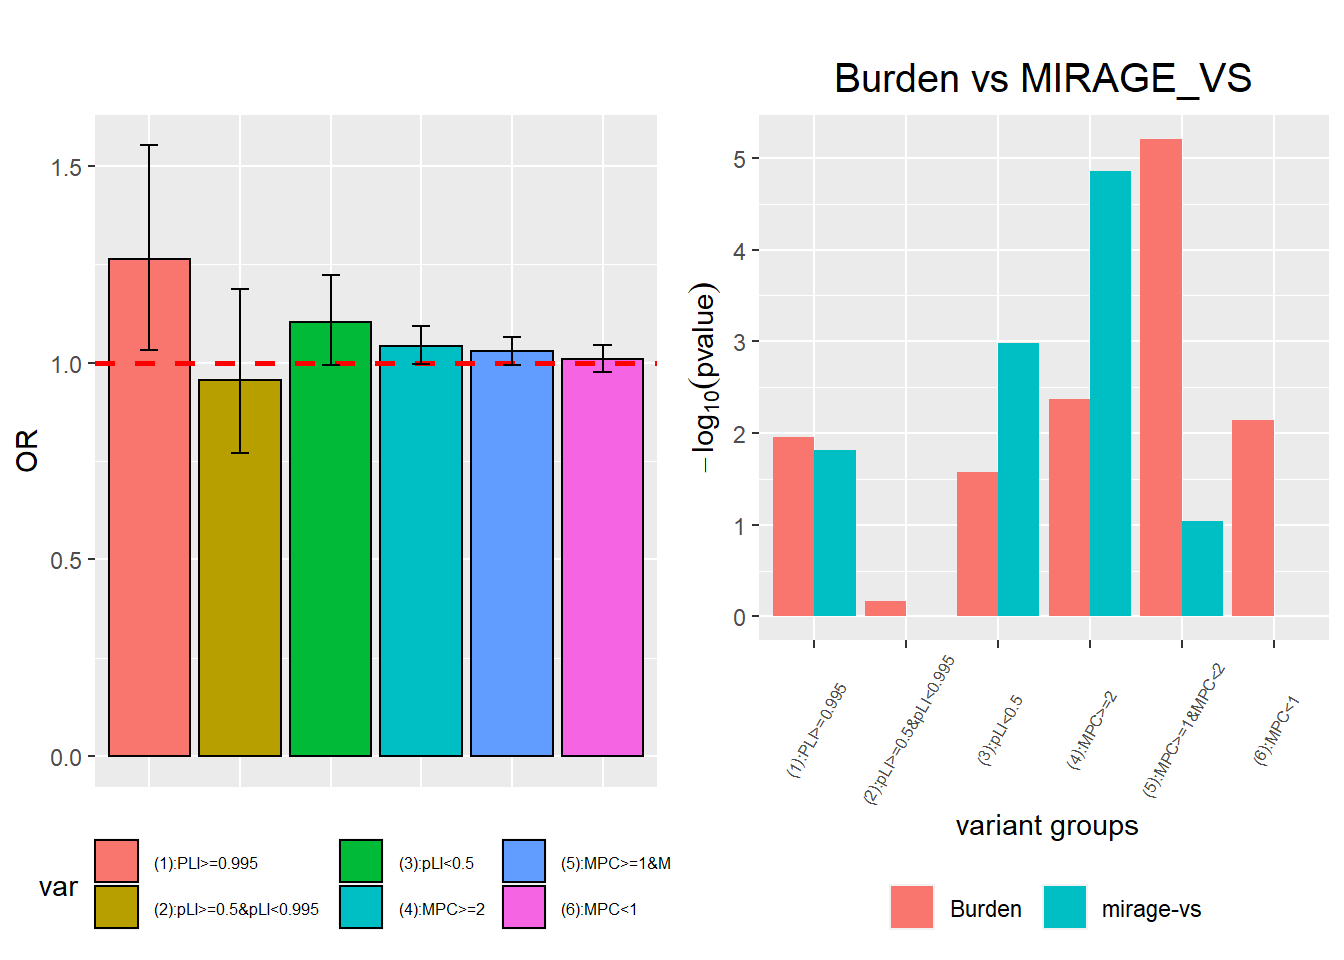
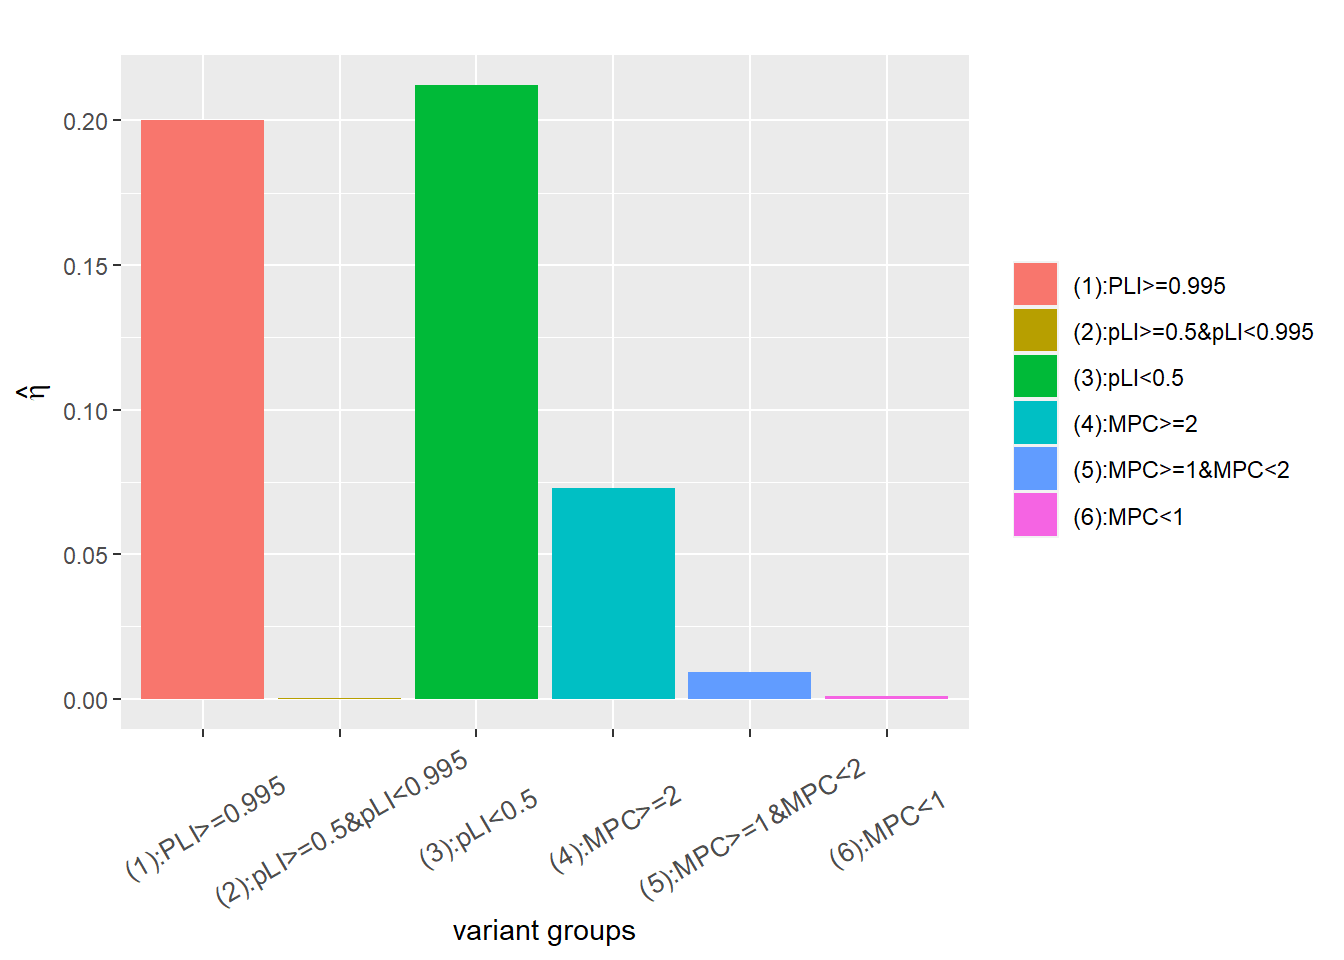
9/1/2022

diff --git a/docs/ASC_new_sample_gene_set.html b/docs/ASC_new_sample_gene_set.html
@@ -783,23 +783,12 @@ value is <span class="math inline">\(2.585515e-34\)</span>.</p></li>
 <div id="run-mirage_vs-on-6-variant-groups-in-cell-paper"
 class="section level3">
 <h3>Run MIRAGE_VS on 6 variant groups in cell paper</h3>
-<p>This figure shows the comparison between burden test (one side two
-sample poisson test) and mirage-vs for proband in 6 variant groups.</p>
 <ul>
 <li><span class="math inline">\(\gamma=6\)</span> for 3 PLI variant
 groups and <span class="math inline">\(\gamma=3\)</span> for 3 MPC
-groups when running mirage.</li>
+groups when running mirage_vs.</li>
 </ul>
-<pre><code>## # A tibble: 6 x 7
-##   X                      No_case No_contr    OR       pval  eta_est  eta_pval
-##   &lt;chr&gt;                    &lt;int&gt;    &lt;int&gt; &lt;dbl&gt;      &lt;dbl&gt;    &lt;dbl&gt;     &lt;dbl&gt;
-## 1 (1):PLI&gt;=0.995             225      178 1.26  0.0109     0.200    0.0150   
-## 2 (2):pLI&gt;=0.5&amp;pLI&lt;0.995     174      182 0.956 0.683      0.000342 1        
-## 3 (3):pLI&lt;0.5                854      775 1.10  0.0266     0.212    0.00105  
-## 4 (4):MPC&gt;=2                7968     7638 1.04  0.00422    0.0730   0.0000137
-## 5 (5):MPC&gt;=1&amp;MPC&lt;2         48412    47060 1.03  0.00000614 0.00926  0.0918   
-## 6 (6):MPC&lt;1               146671   145348 1.01  0.00721    0.000871 1</code></pre>
-<p><img src="ASC_new_sample_gene_set_files/figure-html/unnamed-chunk-24-1.png" width="672" /></p>
+<p><img src="ASC_new_sample_gene_set_files/figure-html/unnamed-chunk-24-1.png" width="672" /><img src="ASC_new_sample_gene_set_files/figure-html/unnamed-chunk-24-2.png" width="672" /></p>
 </div>
 <div id="gene-set-analysis-by-mirage-1" class="section level3">
 <h3>gene set analysis by MIRAGE</h3>
@@ -810,12 +799,29 @@ when running mirage.</p></li>
 <li><p>836 genes in total</p></li>
 </ul>
 <table>
+<caption>Summary of top 5% constraint genes</caption>
+<colgroup>
+<col width="8%" />
+<col width="12%" />
+<col width="12%" />
+<col width="12%" />
+<col width="12%" />
+<col width="12%" />
+<col width="12%" />
+<col width="12%" />
+<col width="8%" />
+</colgroup>
 <thead>
 <tr class="header">
 <th align="left">variant category</th>
 <th align="center">parameter</th>
-<th align="center">estimate</th>
-<th align="right">p value</th>
+<th align="center">MIRAGE: estimate</th>
+<th align="center">MIRAGE:p value</th>
+<th align="center">Trans</th>
+<th align="center">non-Trans</th>
+<th align="center">OR</th>
+<th align="center">MIRAGE_VS: estimate</th>
+<th align="right">MIRAGE_VS: p value</th>
 </tr>
 </thead>
 <tbody>
@@ -824,13 +830,24 @@ when running mirage.</p></li>
 <td align="center"><span
 class="math inline">\(\hat{\delta}\)</span></td>
 <td align="center">0.9832</td>
-<td align="right"><span class="math inline">\(2.014043e-06\)</span></td>
+<td align="center"><span
+class="math inline">\(2.014043e-06\)</span></td>
+<td align="center"></td>
+<td align="center"></td>
+<td align="center"></td>
+<td align="center"></td>
+<td align="right"></td>
 </tr>
 <tr class="even">
 <td align="left">(1):PLI&gt;=0.995</td>
 <td align="center"><span
 class="math inline">\(\hat{\eta}_1\)</span></td>
 <td align="center">0.2036</td>
+<td align="center">0.0150</td>
+<td align="center">225</td>
+<td align="center">178</td>
+<td align="center">1.26</td>
+<td align="center">0.200</td>
 <td align="right">0.0150</td>
 </tr>
 <tr class="odd">
@@ -839,6 +856,11 @@ class="math inline">\(\hat{\eta}_1\)</span></td>
 class="math inline">\(\hat{\eta}_2\)</span></td>
 <td align="center"><span
 class="math inline">\(1.118248e-35\)</span></td>
+<td align="center">1</td>
+<td align="center">174</td>
+<td align="center">182</td>
+<td align="center">0.956</td>
+<td align="center">0.000342</td>
 <td align="right">1</td>
 </tr>
 <tr class="even">
@@ -846,32 +868,52 @@ class="math inline">\(1.118248e-35\)</span></td>
 <td align="center"><span
 class="math inline">\(\hat{\eta}_3\)</span></td>
 <td align="center">0.2145</td>
-<td align="right">0.0011$</td>
+<td align="center">0.0011</td>
+<td align="center">854</td>
+<td align="center">775</td>
+<td align="center">1.10</td>
+<td align="center">0.212</td>
+<td align="right">0.00105</td>
 </tr>
 <tr class="odd">
 <td align="left">(4):MPC&gt;=2</td>
 <td align="center"><span
 class="math inline">\(\hat{\eta}_4\)</span></td>
 <td align="center">0.1115</td>
-<td align="right">0.0000152777</td>
+<td align="center">0.0000152777</td>
+<td align="center">7968</td>
+<td align="center">7638</td>
+<td align="center">1.04</td>
+<td align="center">0.0730</td>
+<td align="right">0.0000137</td>
 </tr>
 <tr class="even">
 <td align="left">(5):1&lt;=MPC&lt;2</td>
 <td align="center"><span
 class="math inline">\(\hat{\eta}_5\)</span></td>
 <td align="center">0.0175</td>
-<td align="right">0.0559135877</td>
+<td align="center">0.0559135877</td>
+<td align="center">48412</td>
+<td align="center">47060</td>
+<td align="center">1.03</td>
+<td align="center">0.00926</td>
+<td align="right">0.0918</td>
 </tr>
 <tr class="odd">
 <td align="left">(6):0&lt;=MPC&lt;1</td>
 <td align="center"><span
 class="math inline">\(\hat{\eta}_6\)</span></td>
 <td align="center">2.259378e-06</td>
+<td align="center">1</td>
+<td align="center">146671</td>
+<td align="center">145348</td>
+<td align="center">1.01</td>
+<td align="center">0.000871</td>
 <td align="right">1</td>
 </tr>
 </tbody>
 </table>
-<p><img src="ASC_new_sample_gene_set_files/figure-html/unnamed-chunk-26-1.png" width="672" /></p>
+<p><img src="ASC_new_sample_gene_set_files/figure-html/unnamed-chunk-26-1.png" width="672" /><img src="ASC_new_sample_gene_set_files/figure-html/unnamed-chunk-26-2.png" width="672" /></p>
 <div id="top-10-genes-with-burden" class="section level4">
 <h4>Top 10 genes with burden</h4>
 <ul>
